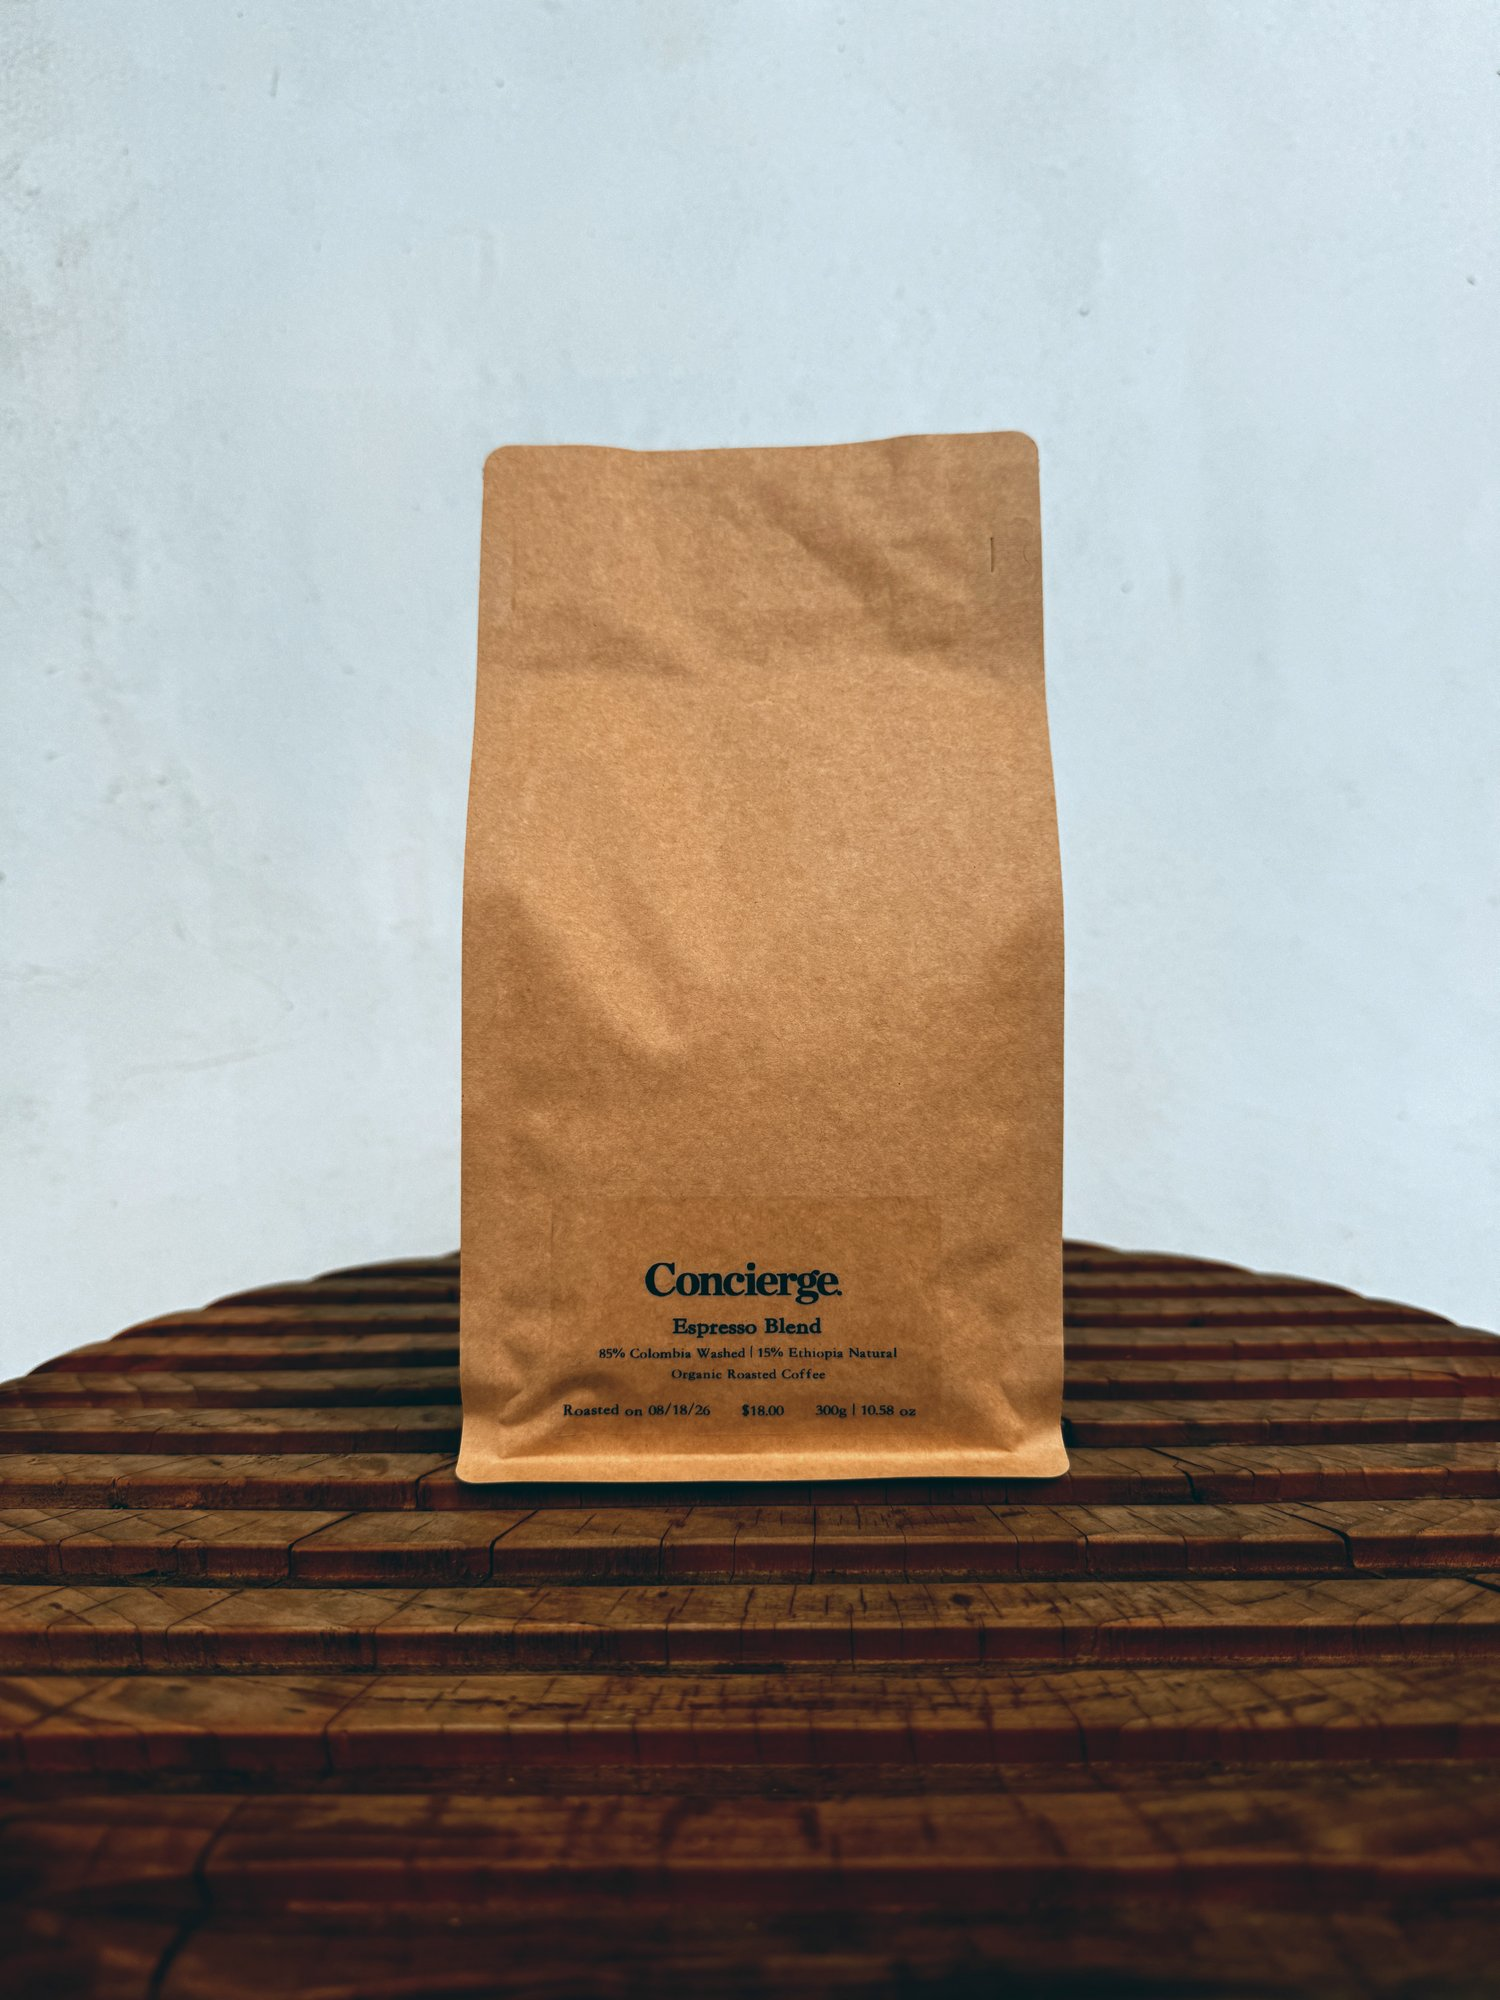
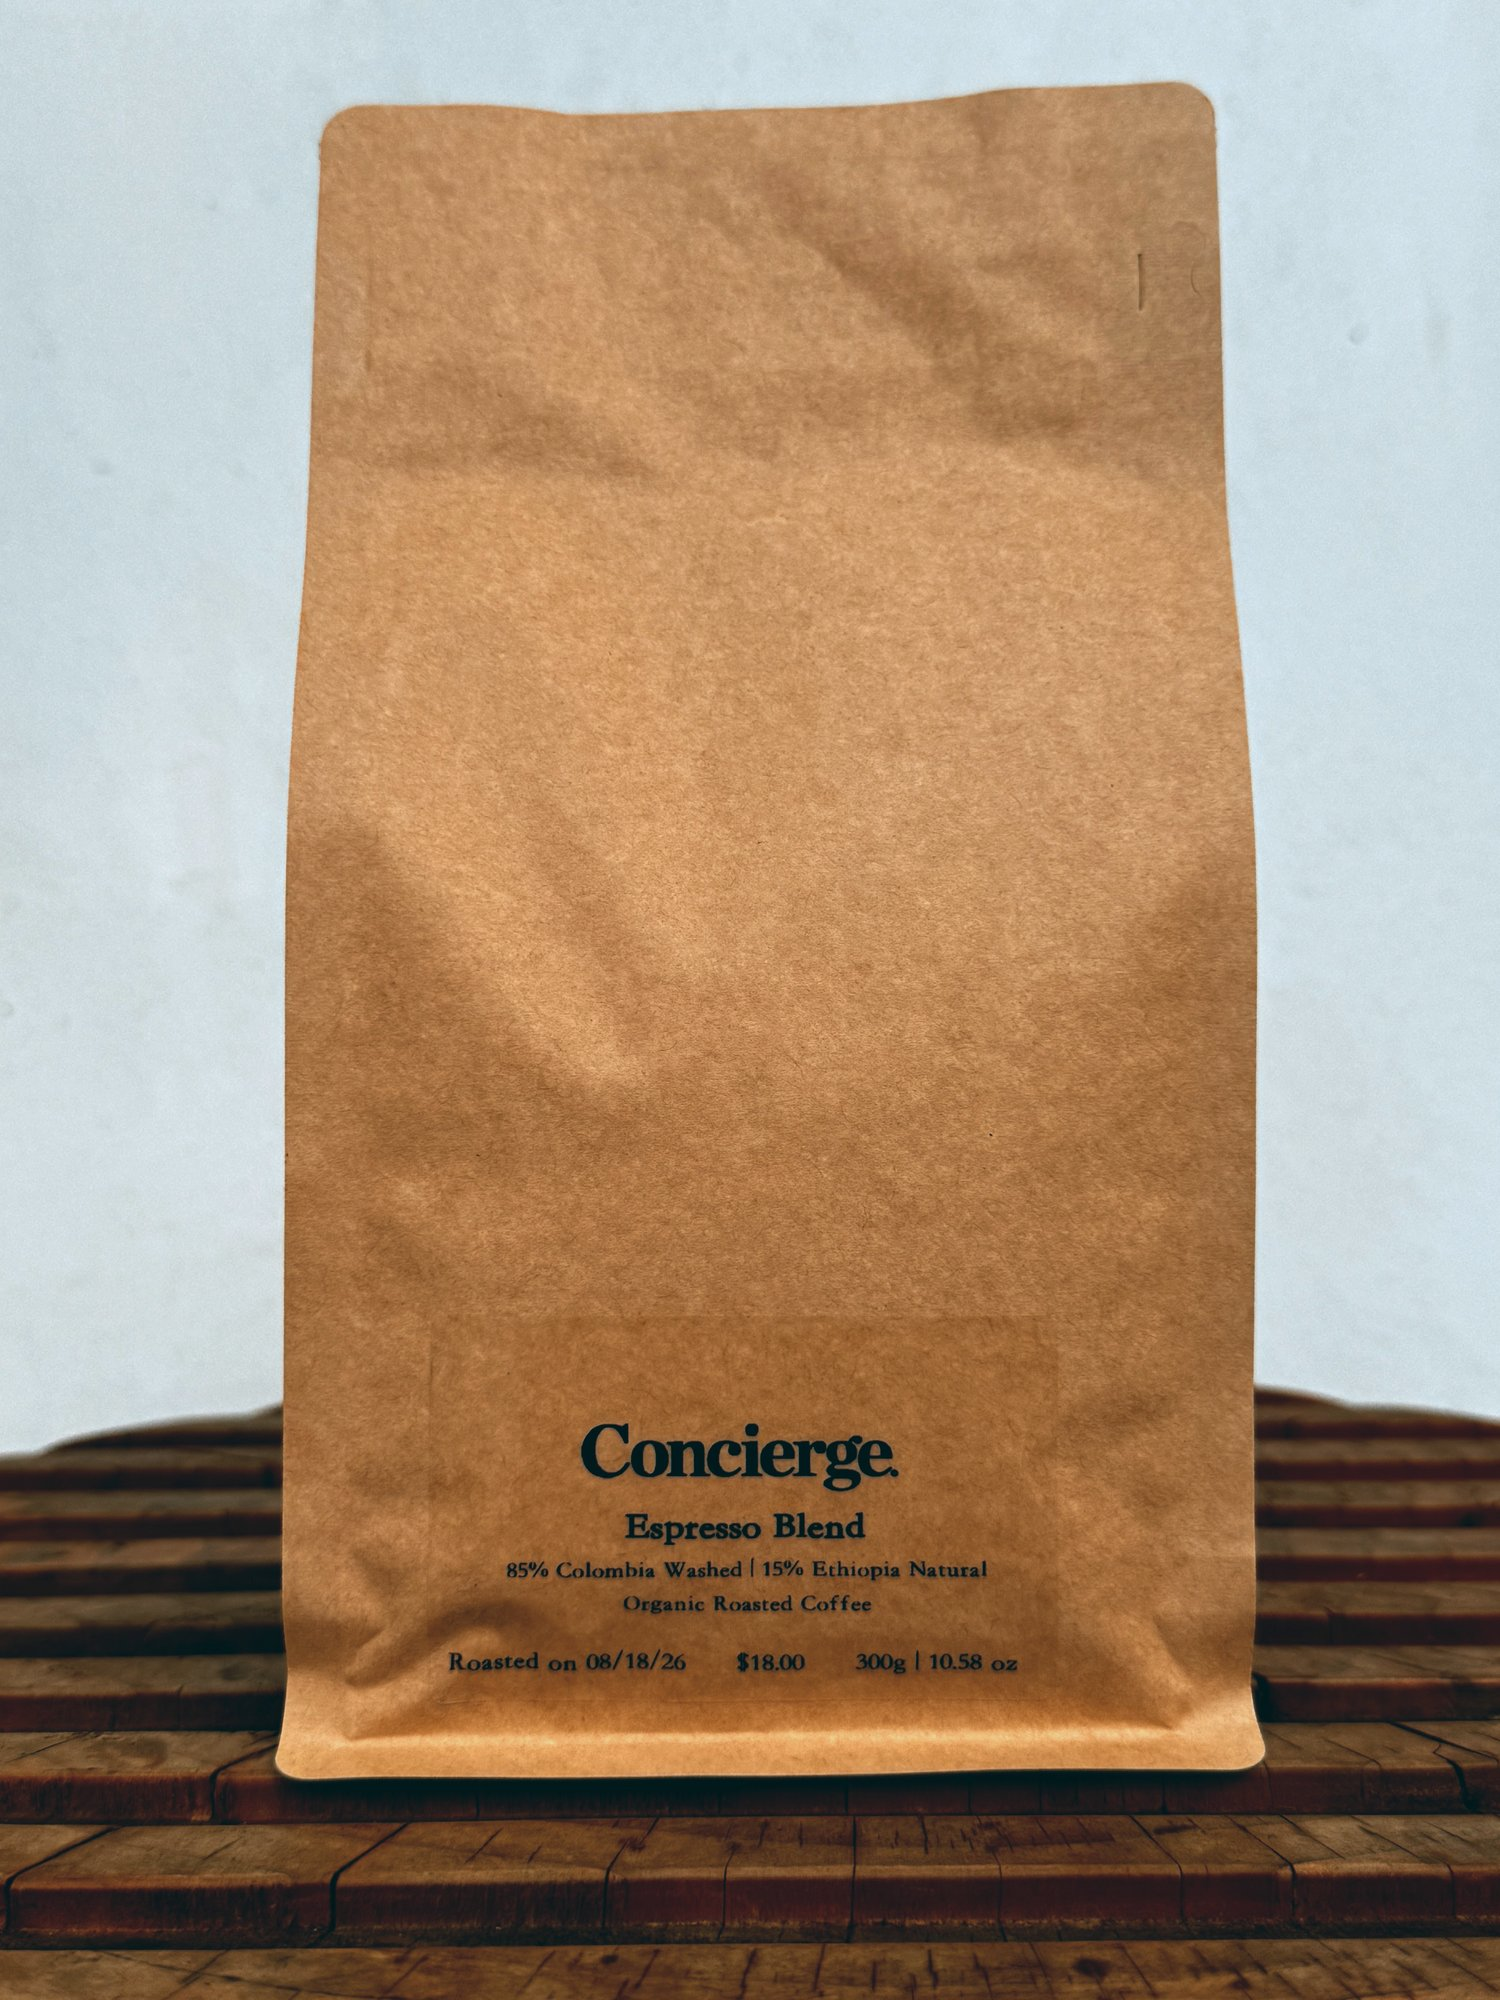
Tighter espresso crop, Peru steel-table shot, remove Doorman/Valet/Night Porter concept cards

diff --git a/shopify.js b/shopify.js
@@ -155,11 +155,7 @@ export function productHref(p) { return `product.html?p=${encodeURIComponent(p.h
    Blends put to Benjamin and Namy rather than products. Named from the hotel
    world the crossed keys already point at, which extends: valet, porter,
    doorman, maître d'. No "blend" in any name, per the naming note. */
-export const CONCEPTS = [
-  { name: 'Doorman',      note: 'Everyday filter',             status: 'Coming soon', img: 'images/concept-doorman.jpg' },
-  { name: 'Valet',        note: 'Limited release, co-ferment', status: 'Sold out',    img: 'images/concept-valet.jpg' },
-  { name: 'Night Porter', note: 'Decaf, sugarcane process',    status: 'Sold out',    img: 'images/concept-night-porter.jpg' },
-];
+export const CONCEPTS = [];  // Doorman, Valet, Night Porter removed Aug 2026
 
 /* ── MERCH ──
    None of it is in Shopify, so none of it can be bought here yet. The cards
